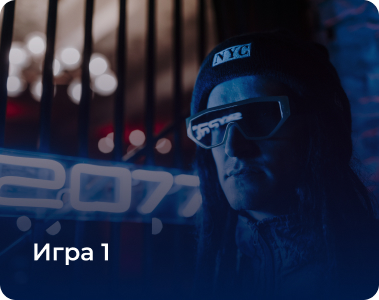
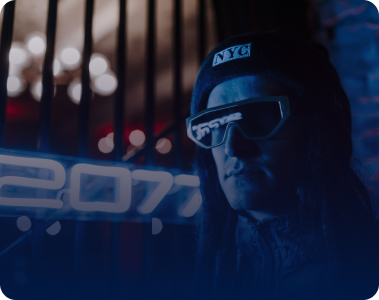
Правки

Changed region(s): [[0.0871, 0.81, 0.2902, 0.9]]

diff --git a/index.html b/index.html
@@ -7,7 +7,7 @@
     <title>Document</title>
     <link rel="preconnect" href="https://fonts.googleapis.com">
     <link rel="preconnect" href="https://fonts.gstatic.com" crossorigin>
-    <link href="https://fonts.googleapis.com/css2?family=Montserrat:wght@300;700&display=swap" rel="stylesheet">
+    <link href="https://fonts.googleapis.com/css2?family=Montserrat:wght@300;600;700&display=swap" rel="stylesheet">
     <link rel="stylesheet" href="style.css">
 </head>
 <body>
@@ -18,13 +18,22 @@
    </header>
    <div class="game center">
         <div class="game__container">
-            <a href="#"><img class="game__container_item" src="img/game1.jpg" alt="#" >
+            <a href="#">
+                <div class="game__container_text"><b>Игра 1</b></div>
+                <img class="game__container_item" src="img/game1.jpg" alt="#" >
+            </a>
         </div>
         <div class="game__container">
-            <a href="#"><img class="game__container_item" src="img/game2.jpg" alt="#" >
+            <a href="#">
+                <div class="game__container_text"><b>Игра 2</b></div>
+                <img class="game__container_item" src="img/game2.jpg" alt="#" >
+            </a>
         </div>
         <div class="game__container">
-            <a href="#"><img class="game__container_item" src="img/game3.jpg" alt="#" >
-    </div>
+            <a href="#">
+                <div class="game__container_text"><b>Игра 3</b></div>
+                <img class="game__container_item" src="img/game3.jpg" alt="#" >
+            </a>
+        </div>
 </body>
 </html>

diff --git a/style.scss b/style.scss
@@ -35,9 +35,11 @@ body {
 
     &_text {
         margin-top: 32px;
+        line-height: 1.8;
+        height: 64PX;
         font-size: 18px;
         max-width: 480px;
-        color: #ffffff;;
+        color: #ffffff;
     }
 
     &_button {
@@ -50,6 +52,7 @@ body {
         height: 48px;
         font-size: 18px;
         transition: all 0.5s;
+        border: 0;
         &:hover {
             background: #f7820d;
             color: #FFFFFF;   
@@ -68,20 +71,29 @@ body {
     align-items: center;
     gap: 32px;
     flex-wrap: wrap;
+    justify-content: center;
  }
 
  .game {
     &__container {
         width: 379px;
         height: 300px;
+        &:hover {
+            outline: 5px solid #44D2FF;
+            border-radius: 18px;
+        }
 
         &_item {
             transition: all 0.3s;
             border-radius: 18px;
-            &:hover {
-                outline: 5px solid #44D2FF;
-                border-radius: 18px;
-            }
+        }
+
+        &_text {
+            position: absolute;
+            font-size: 24px;
+            padding-left: 32px;
+            padding-top: 236px;
+            color: #FFFFFF;
         }
     }
  }

diff --git a/style.css b/style.css
@@ -32,6 +32,8 @@ body {
 }
 .header_text {
   margin-top: 32px;
+  line-height: 1.8;
+  height: 64PX;
   font-size: 18px;
   max-width: 480px;
   color: #ffffff;
@@ -46,6 +48,7 @@ body {
   height: 48px;
   font-size: 18px;
   transition: all 0.5s;
+  border: 0;
 }
 .header_button:hover {
   background: #f7820d;
@@ -63,17 +66,25 @@ body {
   align-items: center;
   gap: 32px;
   flex-wrap: wrap;
+  justify-content: center;
 }
 
 .game__container {
   width: 379px;
   height: 300px;
 }
+.game__container:hover {
+  outline: 5px solid #44D2FF;
+  border-radius: 18px;
+}
 .game__container_item {
   transition: all 0.3s;
   border-radius: 18px;
 }
-.game__container_item:hover {
-  outline: 5px solid #44D2FF;
-  border-radius: 18px;
+.game__container_text {
+  position: absolute;
+  font-size: 24px;
+  padding-left: 32px;
+  padding-top: 236px;
+  color: #FFFFFF;
 }/*# sourceMappingURL=style.css.map */
